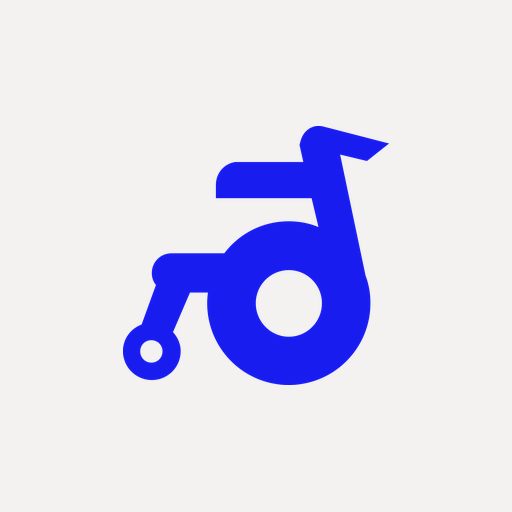
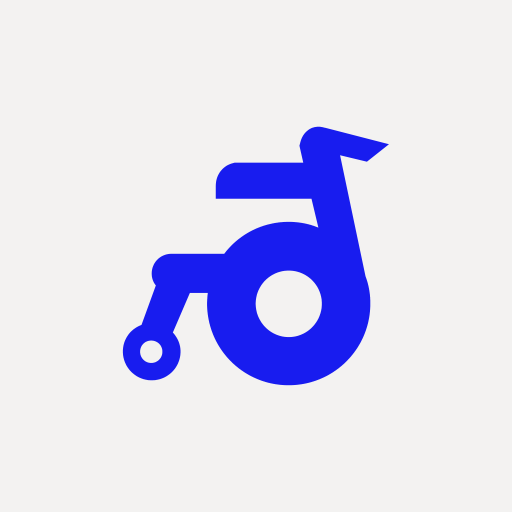
fix: icônes d'application rendues en vectoriel à chaque taille (plus nettes)

Changed region(s): [[0.7188, 0.2812, 0.75, 0.3125], [0.6875, 0.25, 0.7188, 0.2812]]

diff --git a/index.html b/index.html
@@ -9,6 +9,9 @@
   <link rel="icon" type="image/png" sizes="32x32" href="favicon-32.png">
   <!-- Installation sur l'écran d'accueil (iOS et Android) -->
   <link rel="apple-touch-icon" sizes="180x180" href="apple-touch-icon.png">
+  <link rel="apple-touch-icon" sizes="167x167" href="apple-touch-icon-167.png">
+  <link rel="apple-touch-icon" sizes="152x152" href="apple-touch-icon-152.png">
+  <link rel="apple-touch-icon" sizes="120x120" href="apple-touch-icon-120.png">
   <link rel="manifest" href="manifest.webmanifest">
   <meta name="theme-color" content="#F3F2F1">
   <meta name="apple-mobile-web-app-capable" content="yes">
